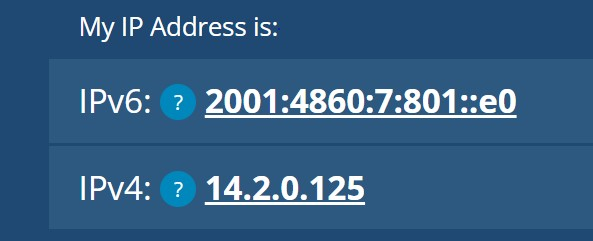
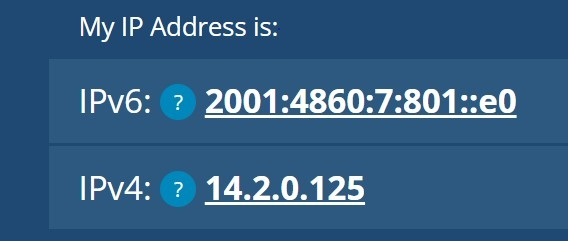
update

Changed region(s): [[0.1197, 0.3485, 0.9278, 0.4938], [0.1197, 0.6971, 0.6585, 0.8714], [0.1197, 0.0581, 0.5088, 0.1743]]

diff --git a/docs/04-hybrid-connectivity-site-to-site-vpn.md b/docs/04-hybrid-connectivity-site-to-site-vpn.md
@@ -132,13 +132,9 @@ After the basic configuration of the on-prem endpoint, we can create the Local N
 
 	(1) from an on-prem computer, go to https://whatismyipaddress.com/, it will show your public IP address
 
-
-
-> 
+> <img title="" src="../screenshots/43ip1.jpg" alt="" width="70%" data-align="center">
 
 	（2）check the public IP of the on-prem gateway router
-
-<img title="" src="../screenshots/43ip1.jpg" alt="" width="70%" data-align="center">
 
 > <img title="" src="../screenshots/43ip2.jpg" alt="" width="50%" data-align="center">
 